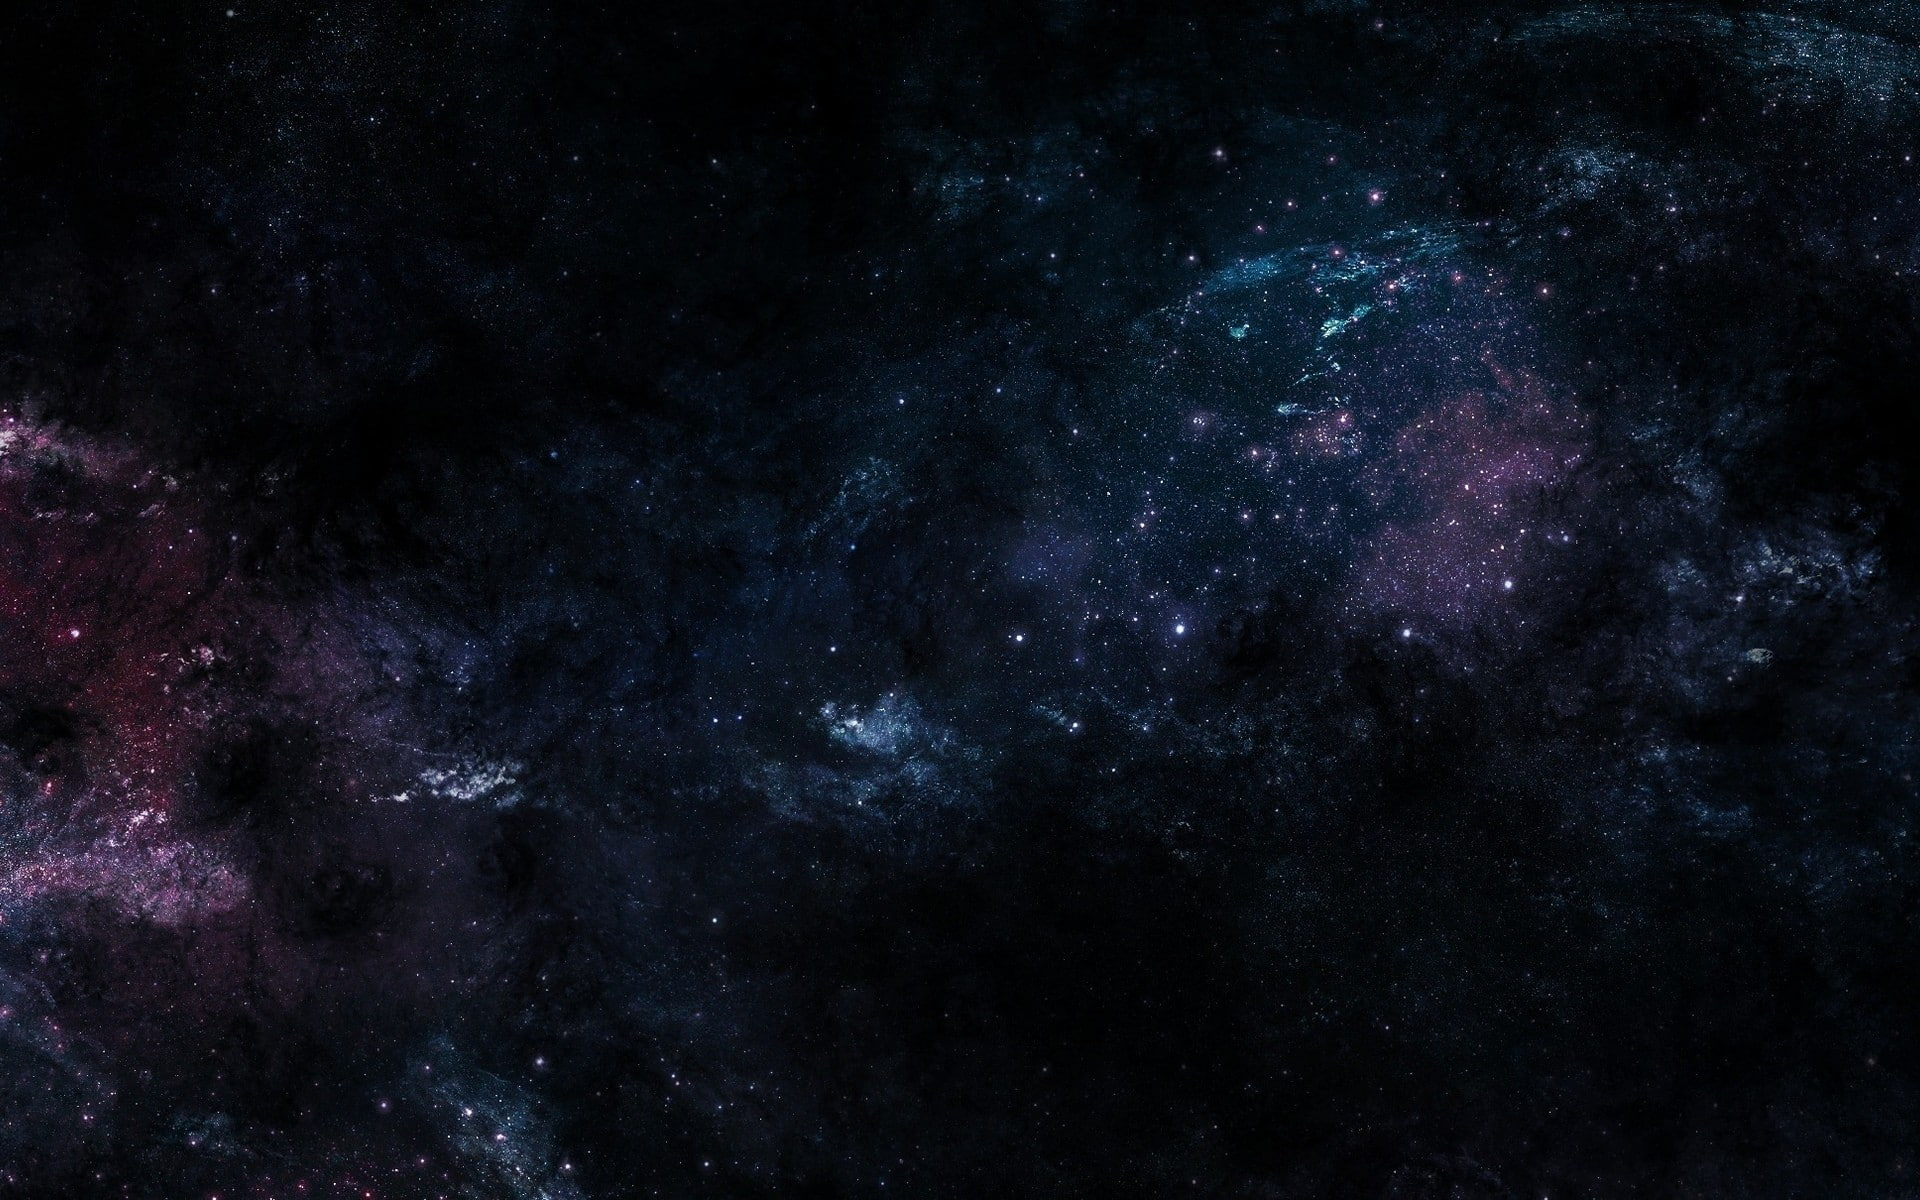
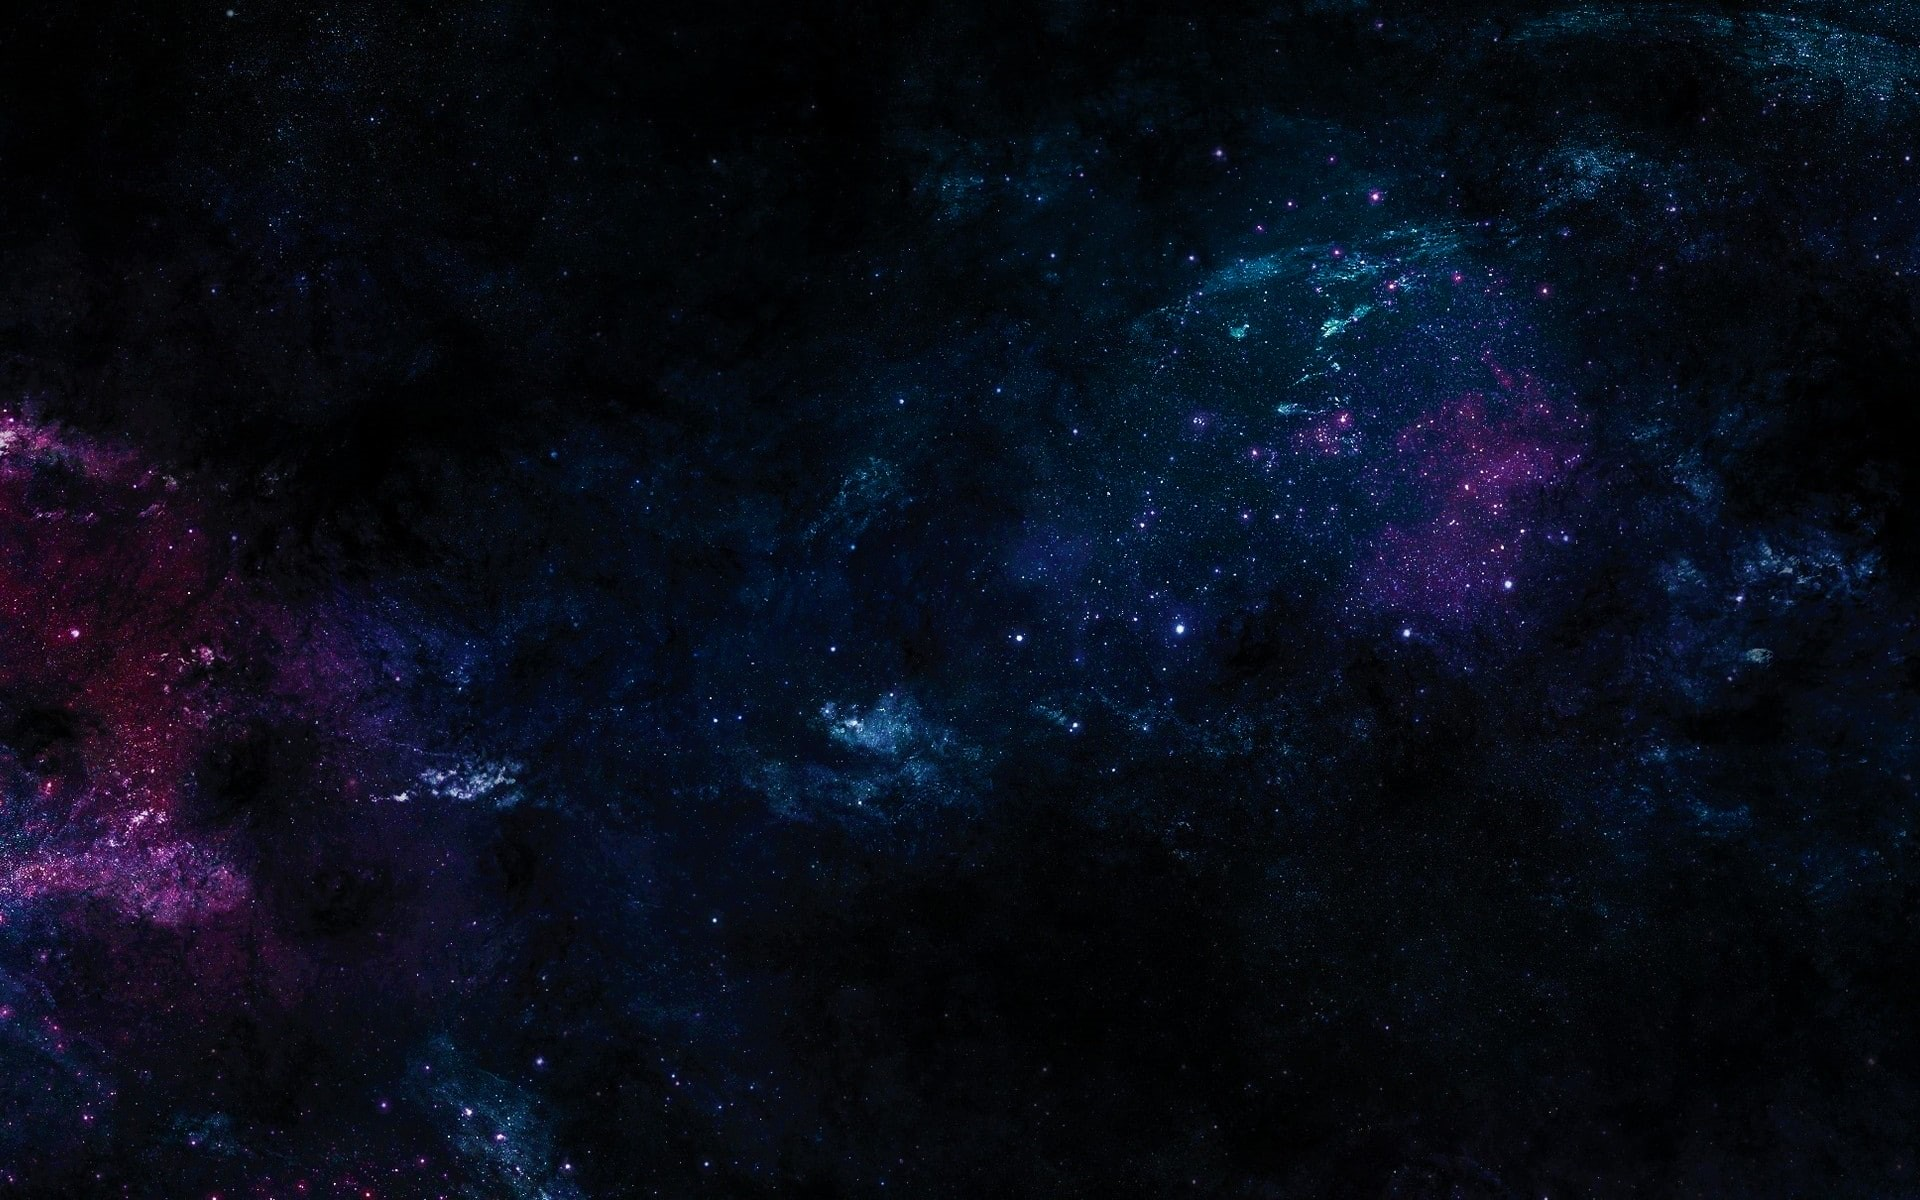
astronity

diff --git a/projeto/site/home-page.html b/projeto/site/home-page.html
@@ -21,15 +21,54 @@
             <ol>FORUM</ol>
         </li>
     </div>
-    <div class="main">        
+    <div class="main">
         <img src="Page/assets/stephen.png">
         <span>"Lembre-se de olhar para as estrelas e não para baixo, para os seus pés. Tente achar sentido no que você
             vê e pergunte sobre o que faz o UNIVERSO existir. Seja curioso." - Stephen Hawking</span>
+    </div>
+    <div class="category">     
+            <h1>EXPLORE MAIS SOBRE O UNIVERSO</h1>
 
+        <div class="up">
+            <div class="opt">
+                <span>SISTEMA SOLAR</span>
+                <img src="Page/assets/solar-system.png">
+            </div>
+            <div class="opt">
+                <span>SISTEMA SOLAR</span>
+                <img src="Page/assets/solar-system.png">
+            </div>
+            <div class="opt">
+                <span>SISTEMA SOLAR</span>
+                <img src="Page/assets/solar-system.png">
+            </div>
+            <div class="opt">
+                <span>SISTEMA SOLAR</span>
+                <img src="Page/assets/solar-system.png">
+            </div>
         </div>
-        <div class="footer">
-            <span></span>
+        <div class="down">
+            <div class="opt">
+                <span>SISTEMA SOLAR</span>
+                <img src="Page/assets/solar-system.png">
+            </div>
+            <div class="opt">
+                <span>SISTEMA SOLAR</span>
+                <img src="Page/assets/solar-system.png">
+            </div>
+            <div class="opt">
+                <span>SISTEMA SOLAR</span>
+                <img src="Page/assets/solar-system.png">
+            </div>
+            <div class="opt">
+                <span>SISTEMA SOLAR</span>
+                <img src="Page/assets/solar-system.png">
+            </div>
         </div>
+    </div>
+    <div class="footer">
+        <span></span>
+    </div>
 </body>
 
 </html>

diff --git a/projeto/src/controllers/usuarioController.js b/projeto/src/controllers/usuarioController.js
@@ -1,5 +1,4 @@
 var usuarioModel = require("../models/usuarioModel");
-var aquarioModel = require("../models/aquarioModel");
 
 function autenticar(req, res) {
   var email = req.body.emailServer;
@@ -19,22 +18,22 @@ function autenticar(req, res) {
         if (resultadoAutenticar.length == 1) {
           console.log(resultadoAutenticar);
 
-          aquarioModel
-            .buscarAquariosPorEmpresa(resultadoAutenticar[0].empresaId)
-            .then((resultadoAquarios) => {
-              if (resultadoAquarios.length > 0) {
-                res.json({
-                  idUsuario: resultadoAutenticar[0].idUsuario,
-                  email: resultadoAutenticar[0].email,
-                  nome: resultadoAutenticar[0].nome,
-                  senha: resultadoAutenticar[0].senha,
-                  telefone: resultadoAutenticar[0].telefone,
-                  dtNasc: resultadoAutenticar[0].dtNasc,
-                });
-              } else {
-                res.status(204).json({ aquarios: [] });
-              }
-            });
+          // aquarioModel
+          //   .buscarAquariosPorEmpresa(resultadoAutenticar[0].empresaId)
+          //   .then((resultadoAquarios) => {
+          //     if (resultadoAquarios.length > 0) {
+          //       res.json({
+          //         idUsuario: resultadoAutenticar[0].idUsuario,
+          //         email: resultadoAutenticar[0].email,
+          //         nome: resultadoAutenticar[0].nome,
+          //         senha: resultadoAutenticar[0].senha,
+          //         telefone: resultadoAutenticar[0].telefone,
+          //         dtNasc: resultadoAutenticar[0].dtNasc,
+          //       });
+          //     } else {
+          //       res.status(204).json({ aquarios: [] });
+          //     }
+          //   });
         } else if (resultadoAutenticar.length == 0) {
           res.status(403).send("Email e/ou senha inválido(s)");
         } else {

diff --git a/projeto/site/Page/styles/home-page.css b/projeto/site/Page/styles/home-page.css
@@ -1,7 +1,6 @@
 * {
     margin: 0;
     font-family: "Poppins", sans-serif;
-    background-color: black;
     color: white;
 }
 
@@ -46,7 +45,7 @@
 .main {
     width: 100%;
     height: 600px;
-    background-image: url(../assets/universe-background2.jpg);
+    background-image: url(../assets/universe-background.jpg);
     background-repeat: no-repeat;
     background-position: center;
     display: flex;
@@ -63,4 +62,46 @@
 .main img {
     border-radius: 20px;
     width: 25%;
+}
+
+/* CATEGORY */
+
+.category {
+    background-color: black;
+    width: 100%;
+    height: 600px;
+    display: flex;
+    flex-direction: column;
+    justify-content: center;
+    align-items: center;
+}
+
+.category .up {
+    height: 250px;
+    width: 100%;
+    display: flex;
+    align-items: center;
+    justify-content: space-around;
+}
+
+.category .down {
+    height: 250px;
+    width: 100%;
+    display: flex;
+    align-items: center;
+    justify-content: space-around;
+}
+
+.category .opt {
+    width: 250px;
+    height: 150px;
+    display: flex;
+    text-align: center;
+    justify-content: center;
+    flex-direction: column;
+}
+
+.category img {
+    width: 250px;
+    border-radius: 25px;
 }

diff --git a/projeto/site/Login.html b/projeto/site/Login.html
@@ -83,7 +83,7 @@
                     sessionStorage.DATA_USUARIO = json.dtNasc;
 
                     setTimeout(function () {
-                        window.location = "./dashboard/cards.html";
+                        window.location = "../forum.html";
                     }, 1000); // apenas para exibir o loading
 
                 });

diff --git a/projeto/site/Cadastro.html b/projeto/site/Cadastro.html
@@ -153,6 +153,6 @@
     }
 
     function sumirMensagem() {
-        mensagem_erro.style.color = "none";
+        //mensagem_erro.style.color = "none";
     }
 </script>

diff --git a/projeto/site/Page/styles/cadastro.css b/projeto/site/Page/styles/cadastro.css
@@ -4,10 +4,6 @@
   color: white;
 }
 
-body {
-  background-color: rgb(50, 50, 50);
-}
-
 video {
   width: 100%;
   position: fixed;
